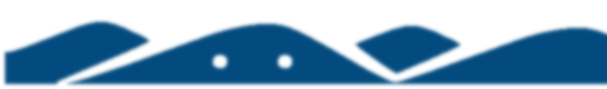
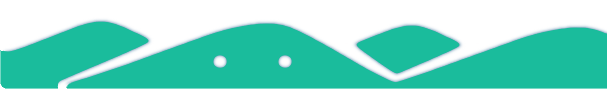
wiki button

diff --git a/index.html b/index.html
@@ -73,7 +73,7 @@
 			</div><!-- /row -->
 			<div id="home-row-2" class="row clearfix"><form role="form">
   <div class="form-group" style="color:black">
-				Visit our <a href="https://mail.packetjunkie.net/mailman/listinfo/hillhackers" class="btn btn-info" style="font-weight:bold;font-size:large;background-color: #034b7f;border-color: #034b7f;">wiki</a> or <a href="https://mail.packetjunkie.net/mailman/listinfo/hillhackers" class="btn btn-info" style="font-weight:bold;font-size:large;background-color: #034b7f;border-color: #034b7f;">the mailing list </a></div></form>
+				Visit our <a href="/index/" class="btn btn-info" style="font-weight:bold;font-size:large;background-color: #1abc9c;border-color: #1abc9c;">wiki</a> or <a href="https://mail.packetjunkie.net/mailman/listinfo/hillhackers" class="btn btn-info" style="font-weight:bold;font-size:large;background-color: #1abc9c;border-color: #1abc9c;">the mailing list </a></div></form>
 				</div><!-- /row -->
 		</div><!-- /container -->
 	</div><!-- /slide1 -->

diff --git a/css/style.css b/css/style.css
@@ -302,7 +302,7 @@ body {
 }
 
 #slide-2 {
-	background-color: #034b7f;
+	background-color: #1abc9c;
 	color: #e4e6e5;
 	padding-top: 90px;
 }
